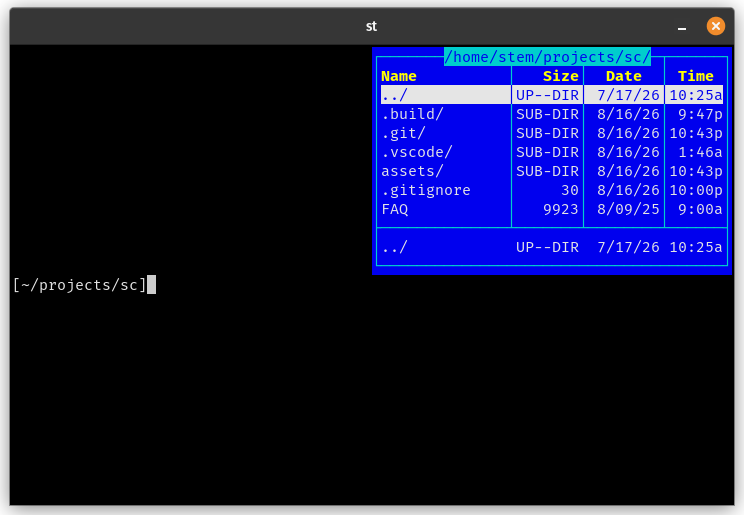
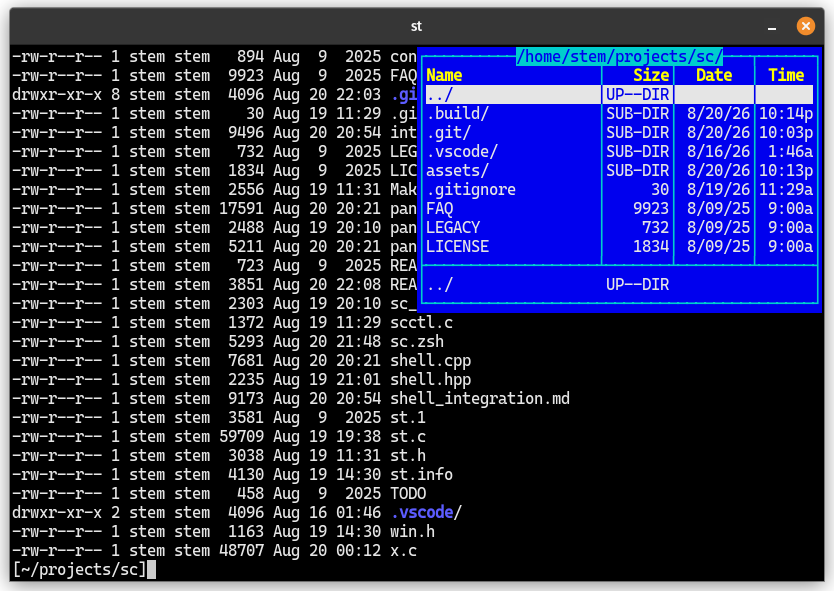
Keep prompts stable after F-key commands. - Distinguish alternate-screen actions from normal-output actions in each key binding. - Reload panel data without treating a post-command cursor as a prompt boundary. - Let ZLE restore successful viewers and editors using their existing prompt geometry. - P

Changed region(s): [[0.0, 0.0, 0.9892, 0.9942]]

diff --git a/shell.cpp b/shell.cpp
@@ -109,7 +109,7 @@ void Shell::init(int pty_fd, pid_t shell_pid, Panel& panel)
         if ( result == 0 ) continue;
         assert( (fds[0].revents & POLLNVAL) == 0 && (fds[1].revents & POLLNVAL) == 0 );
 
-        // Process shell startup output before handle_preprompt() reads the terminal
+        // Process shell startup output before adjust_padding() reads the terminal
         // cursor.
         if ( fds[0].revents & (POLLIN | POLLERR | POLLHUP) ) ttyread();
         if ( fds[1].revents & POLLIN ) preprompt_requested = service_ipc(panel);
@@ -130,6 +130,11 @@ bool Shell::service_ipc(Panel& panel) const
                 reply = std::string(*entry) + "\n";
         }
 
+        else if ( std::strcmp(request, "reload\n") == 0 ) {
+            panel.reload_panel(get_cwd());
+            reply = "ok\n";
+        }
+
         else if ( std::strncmp(request, "preprompt ", 10) == 0
           && request[n - 1] == '\n' ) {
             int applied_padding;
@@ -137,8 +142,11 @@ bool Shell::service_ipc(Panel& panel) const
             const char* last = request + n - 1;
             const auto result = std::from_chars(first, last, applied_padding);
             if ( result.ec == std::errc{} && result.ptr == last && applied_padding >= 0 ) {
+                // A preprompt transaction refreshes panel data before calculating
+                // placement from the terminal's prompt cursor.
+                panel.reload_panel(get_cwd());
                 reply = std::to_string(
-                    panel.handle_preprompt(get_cwd(), applied_padding)) + "\n";
+                    panel.adjust_padding(applied_padding)) + "\n";
                 preprompt_requested = true;
             }
         }

diff --git a/panel.cpp b/panel.cpp
@@ -311,10 +311,8 @@ void Panel::render()
 
 
 
-int Panel::handle_preprompt(std::string cwd, int applied_padding)
+void Panel::reload_panel(std::string cwd)
 {
-    // Every preprompt request reconciles m_cwd and rebuilds m_entries[] before
-    // computing prompt padding.
     std::string prev_path;
     if ( cwd != m_cwd ) {
         // Preserve the directory being left when its absolute path names an ordinary
@@ -331,7 +329,10 @@ int Panel::handle_preprompt(std::string cwd, int applied_padding)
         prev_path = m_cwd + m_entries[m_selected_idx].name;
     }
     load_entries(prev_path);
+}
 
+int Panel::adjust_padding(int applied_padding) const
+{
     // Recover the prompt's row before its existing SC-owned newline prefix, then add
     // only enough newlines to place that row below the visible panel.
     int cursor_y;

diff --git a/panel.hpp b/panel.hpp
@@ -48,9 +48,12 @@ public:
     Panel(Panel&&) =default;
     Panel& operator=(Panel&&) =default;
 
-    // Reconciles the shell cwd, rebuilds its directory snapshot, and returns the total
-    // prompt-owned padding needed to keep the prompt below the panel.
-    int handle_preprompt(std::string cwd, int applied_padding);
+    // Reconciles the shell cwd and rebuilds its directory snapshot without consulting
+    // terminal prompt state.
+    void reload_panel(std::string cwd);
+
+    // Returns the total prompt-owned padding needed to keep the prompt below the panel.
+    int adjust_padding(int applied_padding) const;
 
     // Returns the active entry's name, if any. The view remains valid until the
     // directory snapshot is rebuilt.

diff --git a/shell_integration.md b/shell_integration.md
@@ -73,10 +73,11 @@ runs `builtin cd -- "$REPLY"` only when that item is a directory. ZLE retains
 the current `BUFFER` throughout this operation.
 
 F3 and F4 remain ordinary terminal key sequences and are bound directly by `sc.zsh`.
-`SC_USER_COMMANDS` maps those sequences to command argument strings. The shared
-widget queries SC for the selected name, substitutes its absolute path for a standalone
-`{}` argument (or appends it when absent), and executes the resulting argument vector
-without evaluating it as shell code.
+`SC_USER_COMMANDS` maps those sequences to a display mode followed by command
+arguments. The shared widget validates and removes the mode, queries SC for the
+selected name, substitutes its absolute path for a standalone `{}` argument (or
+appends it when absent), and executes the resulting argument vector without evaluating
+it as shell code.
 
 Plain Enter is deliberately not consumed by the panel. `_sc_enter` owns it:
 
@@ -90,8 +91,9 @@ for Enter behavior.
 
 ## Control socket
 
-`sc.zsh` calls `scctl selected` or `scctl preprompt <applied_padding>`. `scctl` connects to the
-socket named by `SC_SOCKET`, sends the request, and prints the response.
+`sc.zsh` calls `scctl selected`, `scctl preprompt <applied_padding>`, or `scctl reload`.
+`scctl` connects to the socket named by `SC_SOCKET`, sends the request, and prints the
+response.
 
 During initialization, `Shell::init()` services the first preprompt request directly.
 Afterward, `x.c` adds `shell_ipc_fd()` to its `pselect()` fd set and calls
@@ -100,10 +102,12 @@ Afterward, `x.c` adds `shell_ipc_fd()` to its `pselect()` fd set and calls
 - `Shell::service_ipc()` replies to `selected` with the entry name, or no payload when
   the panel has no active selection. The Zsh widget checks the selected path's current
   type before acting on it;
-- `preprompt <applied_padding>` synchronously reads the shell cwd, asks
-  `Panel::handle_preprompt()` to reconcile it and rebuild the entry snapshot, then returns
-  the total number of prompt-owned newlines needed after replacing the adapter's
-  existing prefix.
+- `preprompt <applied_padding>` synchronously reads the shell cwd, calls
+  `Panel::reload_panel()`, then returns the result of
+  `Panel::adjust_padding()`: the total number of prompt-owned newlines needed
+  after replacing the adapter's existing prefix;
+- `reload` performs the same cwd reconciliation and entry rebuild but returns `ok`
+  without reading the terminal cursor or calculating prompt padding.
 
 The process that creates the socket remains its sole cleanup owner across `fork()`.
 Normal `exit()` paths release it through `Shell`'s destructor. The `SIGCHLD` path calls
@@ -117,11 +121,12 @@ variable is absent, relative, unusable, or too long for a Unix-domain socket add
 
 ## Directory refresh path
 
-Every preprompt request reads `/proc/<shell-pid>/cwd` and rebuilds the corresponding
-directory snapshot before replying. This one synchronous request covers ordinary
-accepted commands, panel-driven directory changes, F-key commands executed inside a
-ZLE widget, and prompt refreshes requested after geometry or visibility changes. It
-also avoids ordering state across the PTY and control-socket channels.
+Both preprompt and reload requests read `/proc/<shell-pid>/cwd` and rebuild the
+corresponding directory snapshot before replying. Preprompt requests cover ordinary
+accepted commands, panel-driven directory changes, and prompt refreshes after geometry
+or visibility changes. F-key commands use `reload` because their post-command cursor
+does not identify the active prompt. Both operations avoid ordering state across the
+PTY and control-socket channels.
 
 ## Prompt padding and redraw
 
@@ -138,13 +143,21 @@ zero.
 ZLE emits and tracks these newlines itself, so its display model remains valid.
 SC never moves the terminal cursor or fakes a `SIGWINCH` to uncover a prompt.
 
-Before invalidating ZLE for a user command, `sc.zsh` discards the padding owned by the
-old prompt. After the command returns, it prepares the panel and prompt again. ZLE
-therefore re-expands an appropriately placed prompt without reusing the old prompt's
-placement newlines at the new cursor position.
+Each `SC_USER_COMMANDS` value begins with its display mode. An `ALTERNATE` command
+retains the active prompt and its padding; after successful alternate-screen
+restoration, ZLE resets that prompt in place. A `NORMAL` command discards the padding
+before running, so its ordinary output remains visible and ZLE draws an unpadded prompt
+after it. A failed `ALTERNATE` command also discards the old padding so diagnostics are
+not mistaken for a restored prompt.
 
-zle reset-prompt repaints the current editing line in place: it re-expands and replaces the existing prompt, then redraws the unchanged
-  $BUFFER. It does not accept the line or add a new newline/prompt.
+Both modes call `scctl reload` after the command. The reload-only request updates panel
+data without asking SC to infer a prompt origin from the command-output cursor. Command
+failures are returned from the widget for ZLE's configured feedback (normally a bell),
+and a reload failure prevents prompt reset against stale panel data.
+
+`zle reset-prompt` repaints the current editing line in place: it re-expands and
+replaces the existing prompt, then redraws the unchanged `$BUFFER`. It does not accept
+the line or add a new prompt.
 
 ## Bash
 

diff --git a/internals.md b/internals.md
@@ -82,13 +82,14 @@ synthetic `..` index-zero default. On a same-cwd reload, the selected entry's ab
 path is restored when it remains. Reloading retains the viewport; `render()` moves it
 only when needed to keep the restored selection visible.
 
-`scctl preprompt` is the synchronous preprompt boundary. It reads the shell cwd,
-reconciles a cwd change, reloads entries even when the cwd is unchanged, and finally
-computes prompt padding. This covers fast commands that can finish between frame polls
-without coordinating state across the PTY and control socket.
+`scctl preprompt <applied_padding>` is the synchronous prompt boundary. It reads the
+shell cwd, reconciles a cwd change, reloads entries even when the cwd is unchanged, and
+finally computes prompt padding. `scctl reload` performs the same cwd and entry
+reconciliation without reading the terminal cursor. ZLE user commands use it because
+their post-command cursor is an output boundary, not a prompt boundary.
 
-The terminal owns the cursor. `Panel::handle_preprompt()` reads it on demand through
-`tgetcursor()` while computing padding instead of keeping a copied cursor row
+The terminal owns the cursor. `Panel::adjust_padding()` reads it on demand through
+`tgetcursor()` instead of keeping a copied cursor row
 synchronized after every PTY write. The panel needs only the row, but the terminal
 accessor returns both coordinates for a symmetric C interface.
 
@@ -124,14 +125,21 @@ monotonic clock and refreshes the prompt after geometry settles.
 - Expose only the selected entry name outside `Panel`. Zsh checks the path's current
   type immediately before acting instead of treating cached panel metadata as the
   execution authority.
-- Before user commands invalidate ZLE and write to the terminal, they discard the old
-  prompt's padding so ZLE's automatic redisplay re-expands the unpadded prompt. Command
-  output may have moved the cursor past the old prompt; reusing its padding would push
-  the next prompt down, while explicitly resetting it would clear command output before
-  the new prompt is drawn.
-- Keep directory reconciliation and entry reload in the synchronous `scctl preprompt`
-  transaction. Prompt completion is the correctness boundary for filesystem changes;
-  frame polling remains responsible only for presentation state.
+- `ALTERNATE` user commands retain the active prompt's padding through successful
+  alternate-screen restoration and let ZLE reset that prompt in place. `NORMAL`
+  commands discard the old padding before producing output, while failed `ALTERNATE`
+  commands discard it afterward. Both modes reload panel data without consulting the
+  output cursor and return command failures for ZLE's configured feedback.
+- Treat each user command's display mode as a configuration contract for successful
+  completion. Assign `ALTERNATE` only when success restores the old screen and `NORMAL`
+  when output advances beyond the old prompt; misclassification gives ZLE the wrong
+  prompt geometry. A failed `ALTERNATE` command is treated as normal diagnostic output
+  because it may fail before entering the alternate screen. Consequently, a command
+  that restores the old screen but returns nonzero remains an ambiguous edge case.
+- Keep directory reconciliation and entry reload synchronous in both `scctl preprompt`
+  and `scctl reload`. Only preprompt requests calculate padding, at a real prompt
+  boundary; reload requests must not infer prompt placement from a command-output
+  cursor. Frame polling remains responsible only for presentation state.
 - Treat the first successful preprompt request as shell readiness. `Shell::init()` services
   startup PTY and IPC activity until that request completes, so later panel methods can
   rely on initialized cwd and entry invariants without readiness checks.

diff --git a/README.md b/README.md
@@ -1,9 +1,6 @@
 # SC — Simple Commander
 
-SC is an NC (Norton Commander)-inspired terminal for Linux. It is based on the
-[st](https://st.suckless.org/) terminal emulator and adds a keyboard-driven
-directory panel over the terminal screen. The panel follows your shell's
-current directory, so you can browse files without leaving the command line.
+SC is an NC (Norton Commander)-inspired terminal emulator for Linux. Built directly on top of [st](https://st.suckless.org/), it operates as a full terminal - not an application running inside one - meaning you close it simply by typing `exit`. It adds a keyboard-driven directory panel over the terminal screen that follows your shell's current directory, allowing you to seamlessly browse files without ever leaving the command line.
 
 ![SC running as an overlay: the shell remains available on the left while the current directory is shown in the top-right panel.](assets/sc-running.png)
 
@@ -83,9 +80,11 @@ When a command is already being edited, `Enter` behaves normally and runs that
 command.
 
 Function-key actions such as `F3` and `F4` are configurable in `sc.zsh` through
-the `SC_USER_COMMANDS` associative array near the top of the file. A standalone
-`{}` argument is replaced with the selected entry's absolute path; if `{}` is
-absent, the path is appended to the configured command.
+the `SC_USER_COMMANDS` associative array near the top of the file. Each command starts
+with `ALTERNATE` when it restores the terminal's alternate screen, or `NORMAL` when it
+leaves ordinary output at the terminal cursor. A standalone `{}` argument is replaced
+with the selected entry's absolute path; if `{}` is absent, the path is appended to the
+configured command.
 
 ## Current scope
 
